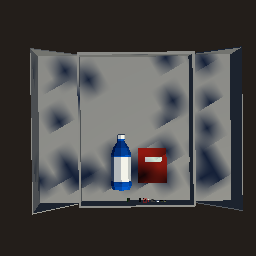
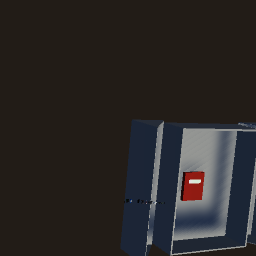
Screenshot camera kinda working

diff --git a/Prototype/Assets/Scripts/Box.cs b/Prototype/Assets/Scripts/Box.cs
@@ -19,6 +19,8 @@ public class Box : MonoBehaviour
     public GameObject box2;
     public GameObject box1;
 
+    public GameObject boxFrame;
+
     private bool firstTouch = false;
 
     //public GameObject newIcon;
@@ -37,18 +39,18 @@ public class Box : MonoBehaviour
             notificationBox.SetActive(true);
             homeScreen = false;
         }*/
-
+        
         box1.SetActive(true);
         
 
-       // mAnimator = GetComponent<Animator>();
+        // mAnimator = GetComponent<Animator>();
 
     }
 
     // Update is called once per frame
     void Update()
     {
-
+       
 
         if (Input.touchCount > 0 && firstTouch == false)
         {
@@ -65,6 +67,7 @@ public class Box : MonoBehaviour
 
             if (Physics.Raycast(ray, out hit, 100, layerMask) && boxClosed)
             {
+                //notificationBox.SetActive(true);
                 //notificationText.SetText("Drag and drop the objects into the box");
                 imageComponent.sprite = spriteToChange;
                 Debug.Log("Open Box");
@@ -74,6 +77,11 @@ public class Box : MonoBehaviour
                 box1.SetActive(false);
                 box2.SetActive(true);
 
+                
+                if(box2 == true)
+                {
+                    boxFrame.SetActive(false);
+                }
 
                 //newIcon.SetActive(false);
 

diff --git a/Prototype/Assets/Scripts/ExportPNGOnCamera.cs b/Prototype/Assets/Scripts/ExportPNGOnCamera.cs
@@ -6,6 +6,7 @@ using UnityEngine.Networking;
 using System.IO;
 using TMPro;
 using UnityEngine.UI;
+using UnityEngine.Rendering;
 
 public class Result
 {
@@ -26,7 +27,7 @@ public class ExportPNGOnCamera : MonoBehaviour
     void Start()
     {
 
-        RenderTexture rt = Selection.activeObject as RenderTexture;
+        //RenderTexture rt = Selection.activeObject as RenderTexture;
 
 
     }
@@ -71,10 +72,17 @@ public class ExportPNGOnCamera : MonoBehaviour
         bytes = tex.EncodeToPNG();
 
         i++;
-        string path = Application.dataPath + i + ".png";
-        System.IO.File.WriteAllBytes(path, bytes);
-        AssetDatabase.ImportAsset(path);
+        //string path = Application.dataPath + i + ".png";
+        string path = Application.persistentDataPath + i + ".png";
+        ScreenCapture.CaptureScreenshot(path);
+        // System.IO.File.WriteAllBytes(path, bytes);
+        //AssetDatabase.ImportAsset(path);
         Debug.Log("Saved to " + path);
+
+        
+        ScreenCapture.CaptureScreenshotIntoRenderTexture(rt);
+        AsyncGPUReadback.Request(rt, 0, TextureFormat.RGBA32);
+
 
         result.texture = tex;
 
